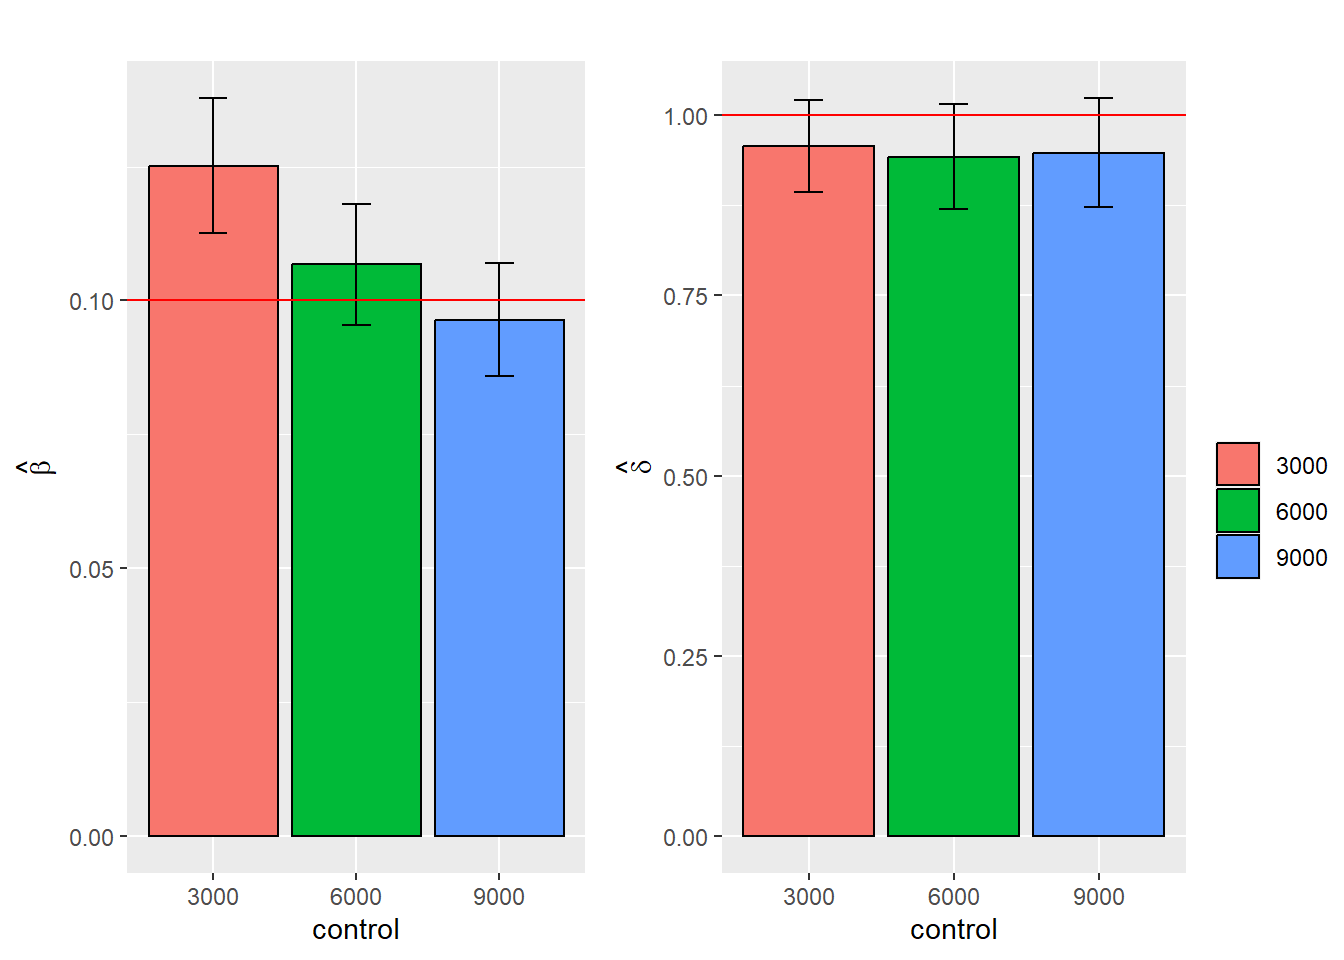
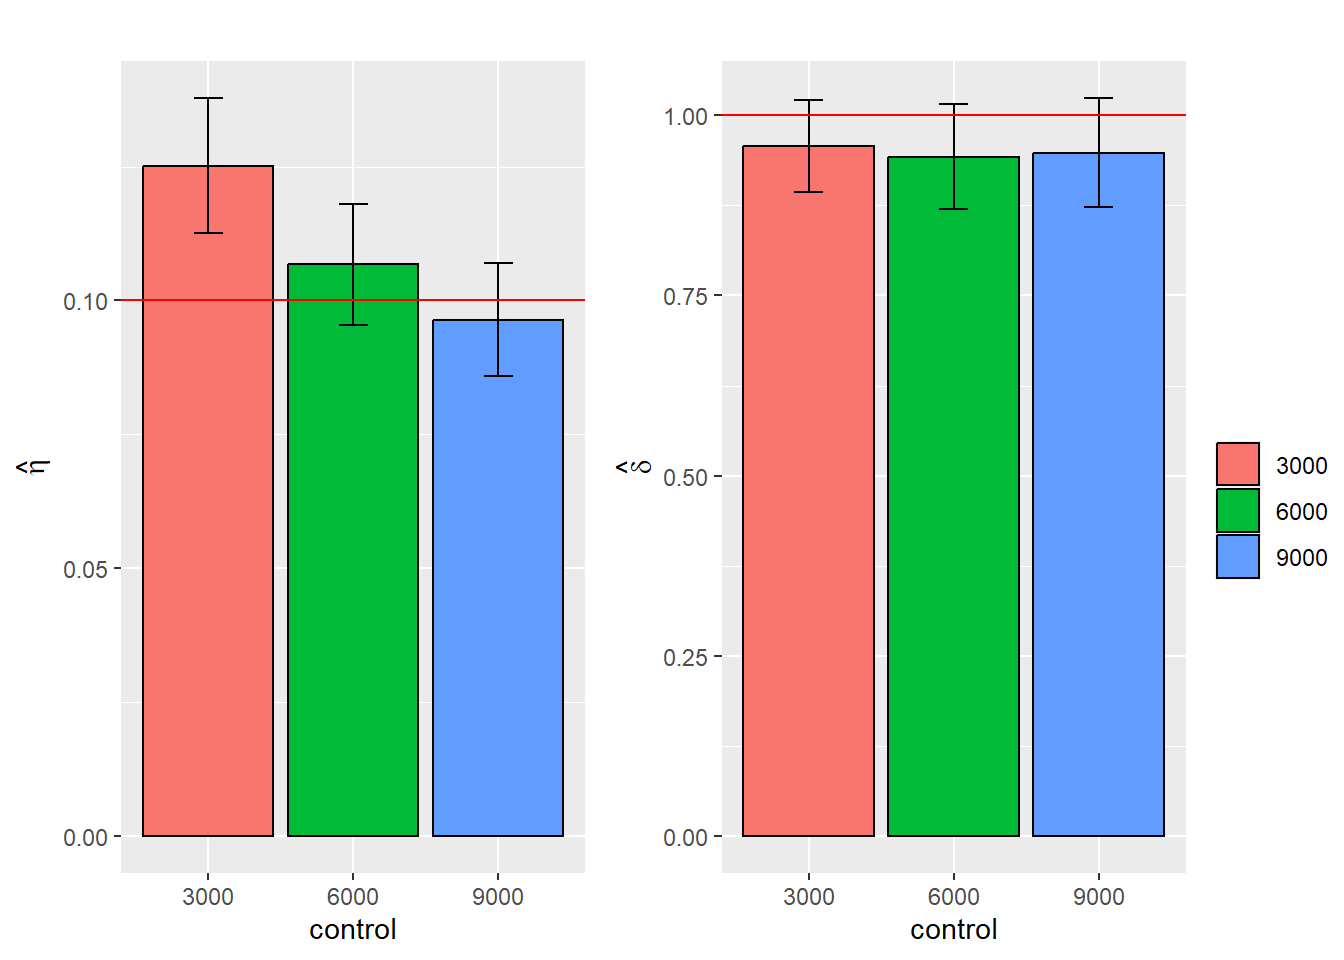
3/6/2023

diff --git a/docs/effect_case_control_ratio.html b/docs/effect_case_control_ratio.html
@@ -353,7 +353,25 @@ div.tocify {
 </div>
 
 
+<div id="one-risk-variant-group-only" class="section level2">
+<h2>one risk variant group only</h2>
 <p><img src="effect_case_control_ratio_files/figure-html/unnamed-chunk-3-1.png" width="672" /></p>
+<ul>
+<li><p>cases <span class="math inline">\(N0=3000\)</span>.</p></li>
+<li><p>one risk variant group with <span class="math inline">\(\eta=0.1,
+\delta=1\)</span></p></li>
+</ul>
+</div>
+<div id="multiple-risk-variant-groups" class="section level2">
+<h2>multiple risk variant groups</h2>
+<p><img src="effect_case_control_ratio_files/figure-html/unnamed-chunk-4-1.png" width="672" /></p>
+<ul>
+<li><p>cases <span class="math inline">\(N0=3000\)</span>.</p></li>
+<li><p>one risk variant group with <span
+class="math inline">\(\eta_1=0.1, \eta_2=0.4, \eta_3=0.8,
+\delta=1\)</span></p></li>
+</ul>
+</div>
 
 <hr>
 <p>
